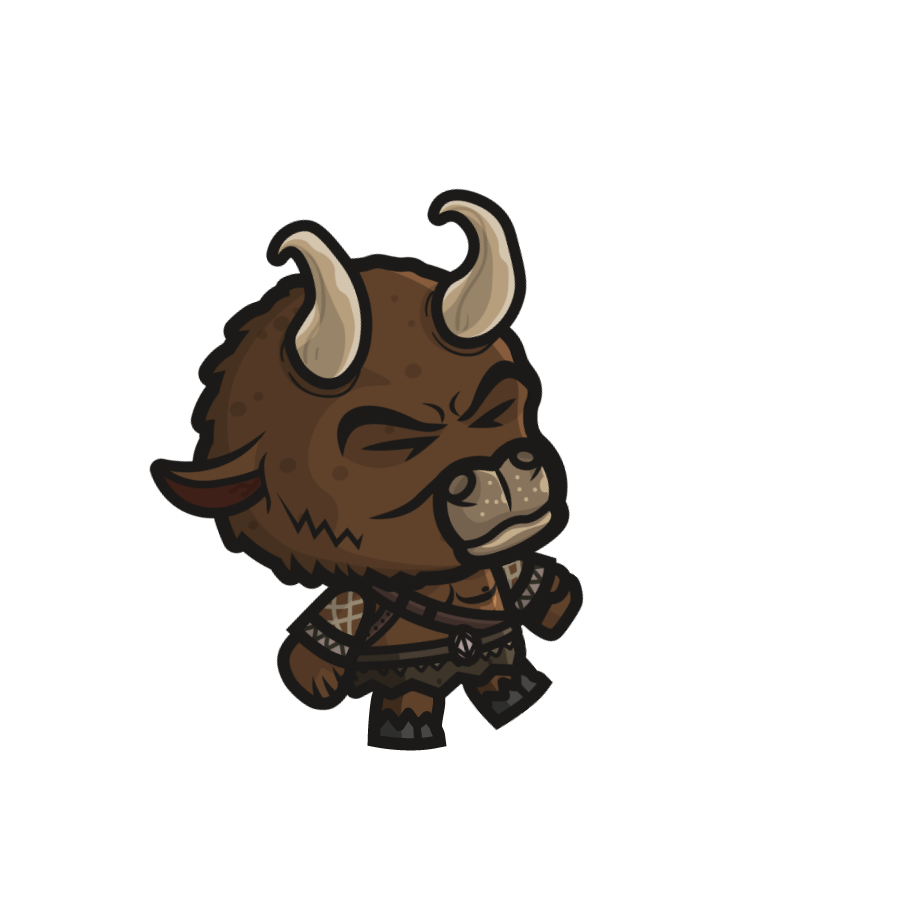
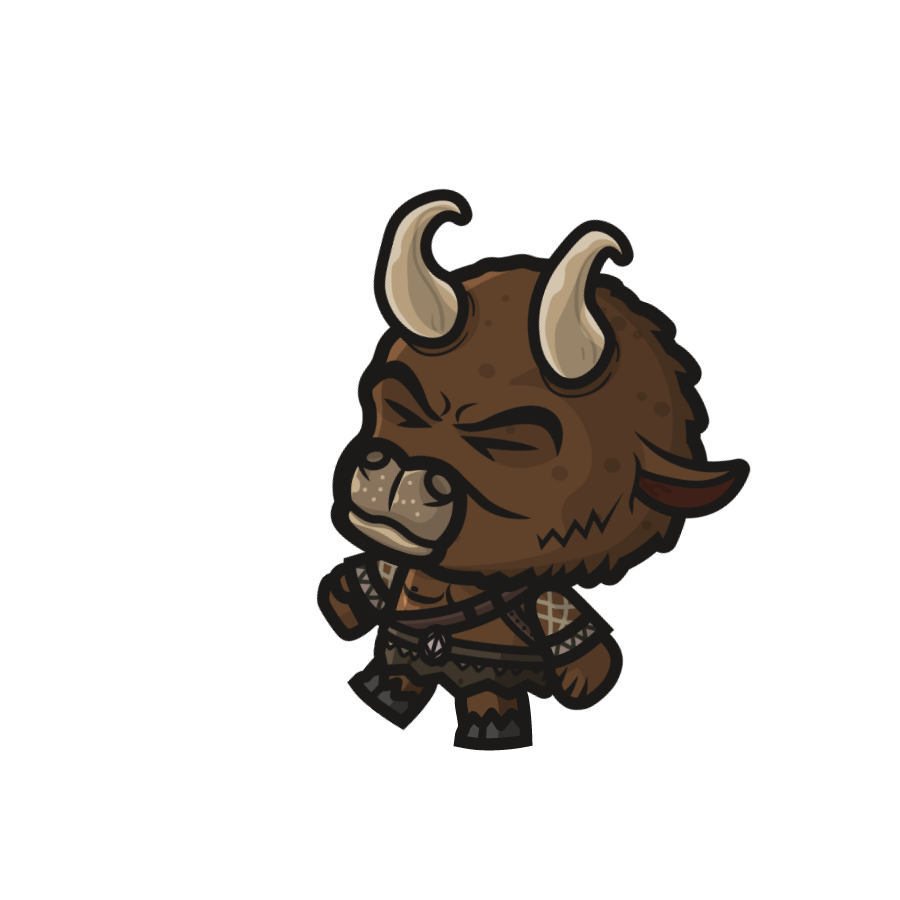
debug hurt animtarion for minotaur

Changed region(s): [[0.1556, 0.1867, 0.84, 0.84]]

diff --git a/models/world.class.js b/models/world.class.js
@@ -25,7 +25,6 @@ class World {
     this.setworld();
     this.draw();
     this.checkCollisions();
-    this.checkMinotaurCollision();
     this.checkIfDead(this.character, this.character.valkyrieDead);
     this.checkIfDead(this.minotaur, this.minotaur.minotaurDead);
     this.checkThrowing();
@@ -48,7 +47,7 @@ class World {
         this.sound.addSound("throw", "./assets/sounds/throw.mp3");
         this.sound.addSound("minotaurDying", "./assets/sounds/minotaurDying.mp3");
         this.sound.addSound("item", "./assets/sounds/item.mp3");
-        this.sound.volume("background", 1);
+        this.sound.volume("background", 0.3);
         this.sound.playSound("background");
       }
     });
@@ -125,13 +124,13 @@ class World {
   checkEnemyHit() {
     this.character.intervals.push(
       setInterval(() => {
-        this.checkEnemyCollision();
+        this.checkEnemyCollisionWithItem();
         this.checkMinotaurCollision();
       }, 100)
     );
   }
 
-  checkEnemyCollision() {
+  checkEnemyCollisionWithItem() {
     if (!this.character.isDead) {
       this.level.enemies.forEach((enemy, enemyIndex) => {
         this.level.throwables.forEach((item, itemIndex) => {
@@ -148,13 +147,23 @@ class World {
     this.level.throwables.forEach((item, itemIndex) => {
       if (item.isColliding(this.minotaur) && !this.minotaur.isDead) {
         this.minotaur.live -= this.itemDamageAmount;
-        this.sound.playSound("minotaurDying");
         this.minotaurStatusBar.setPercentageMinotaur(this.minotaur.live);
         this.level.throwables.splice(itemIndex, 1);
-        if (this.minotaur.live > 0) {
+        this.minotaur.isHurt = true;
+        this.sound.playSound("minotaurDying");
+        clearInterval(this.minotaur.walkingInterval);
+        if (this.minotaur.isHurt === true) {
           this.minotaur.updateAnimationFrame(this.minotaur.minotaurHurt);
-          setTimeout(() => this.minotaur.updateAnimationFrame(this.minotaur.minotaurWalking), 200);
-        } else Object.assign(this.minotaur, { isDead: true, currentImage: 0, movingRight: false });
+          setTimeout(() => {
+            if (this.minotaur.live > 0) {
+              this.minotaur.isHurt = false;
+              this.minotaur.animate();
+            } else {
+              this.minotaur.isDead = true;
+              this.minotaur.animate();
+            }
+          }, 400);
+        }
       }
     });
   }

diff --git a/models/minotaur.class.js b/models/minotaur.class.js
@@ -101,7 +101,7 @@ class Minotaur extends MovableObject {
     this.imageCache = {};
     this.loadImagesInCache(this.minotaurHurt);
     this.currentImage = 0;
-    this.animateHurt();
+    // this.animateHurt();
   }
 
   animateDead() {
